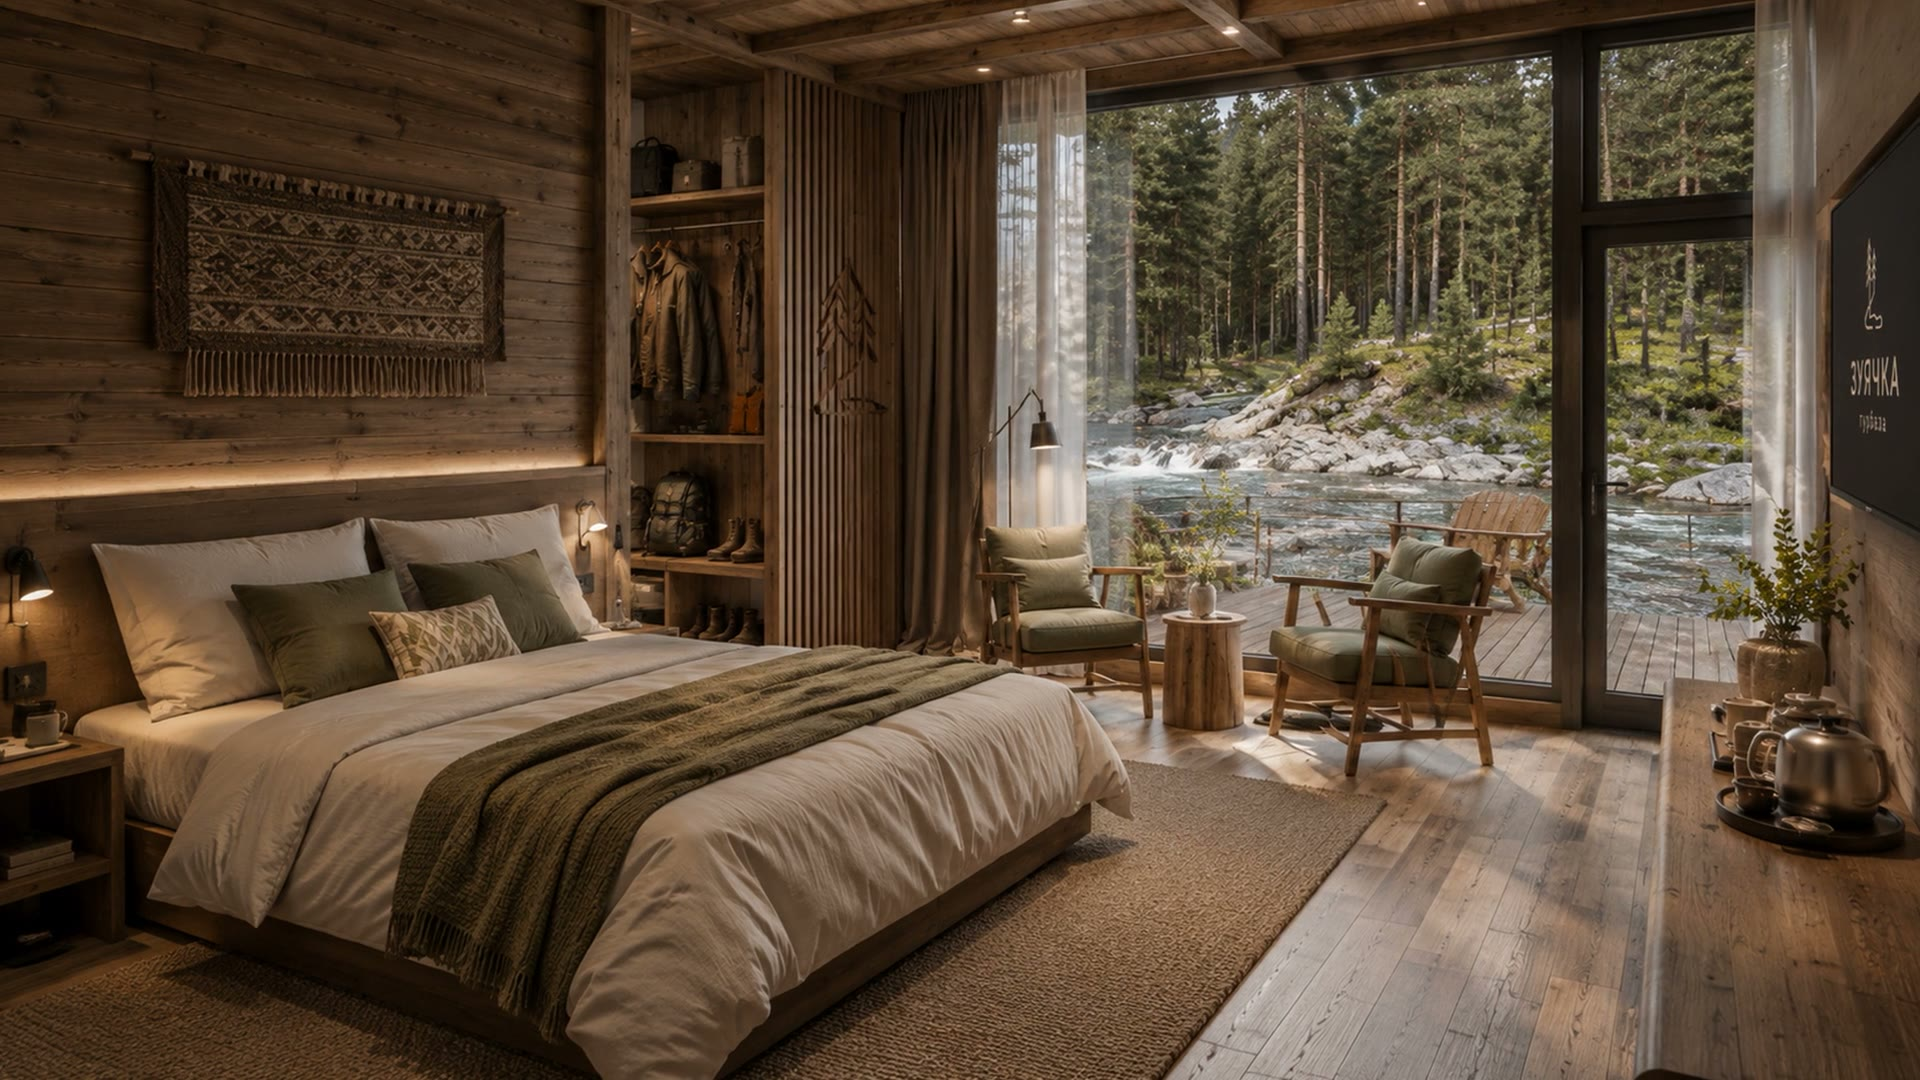
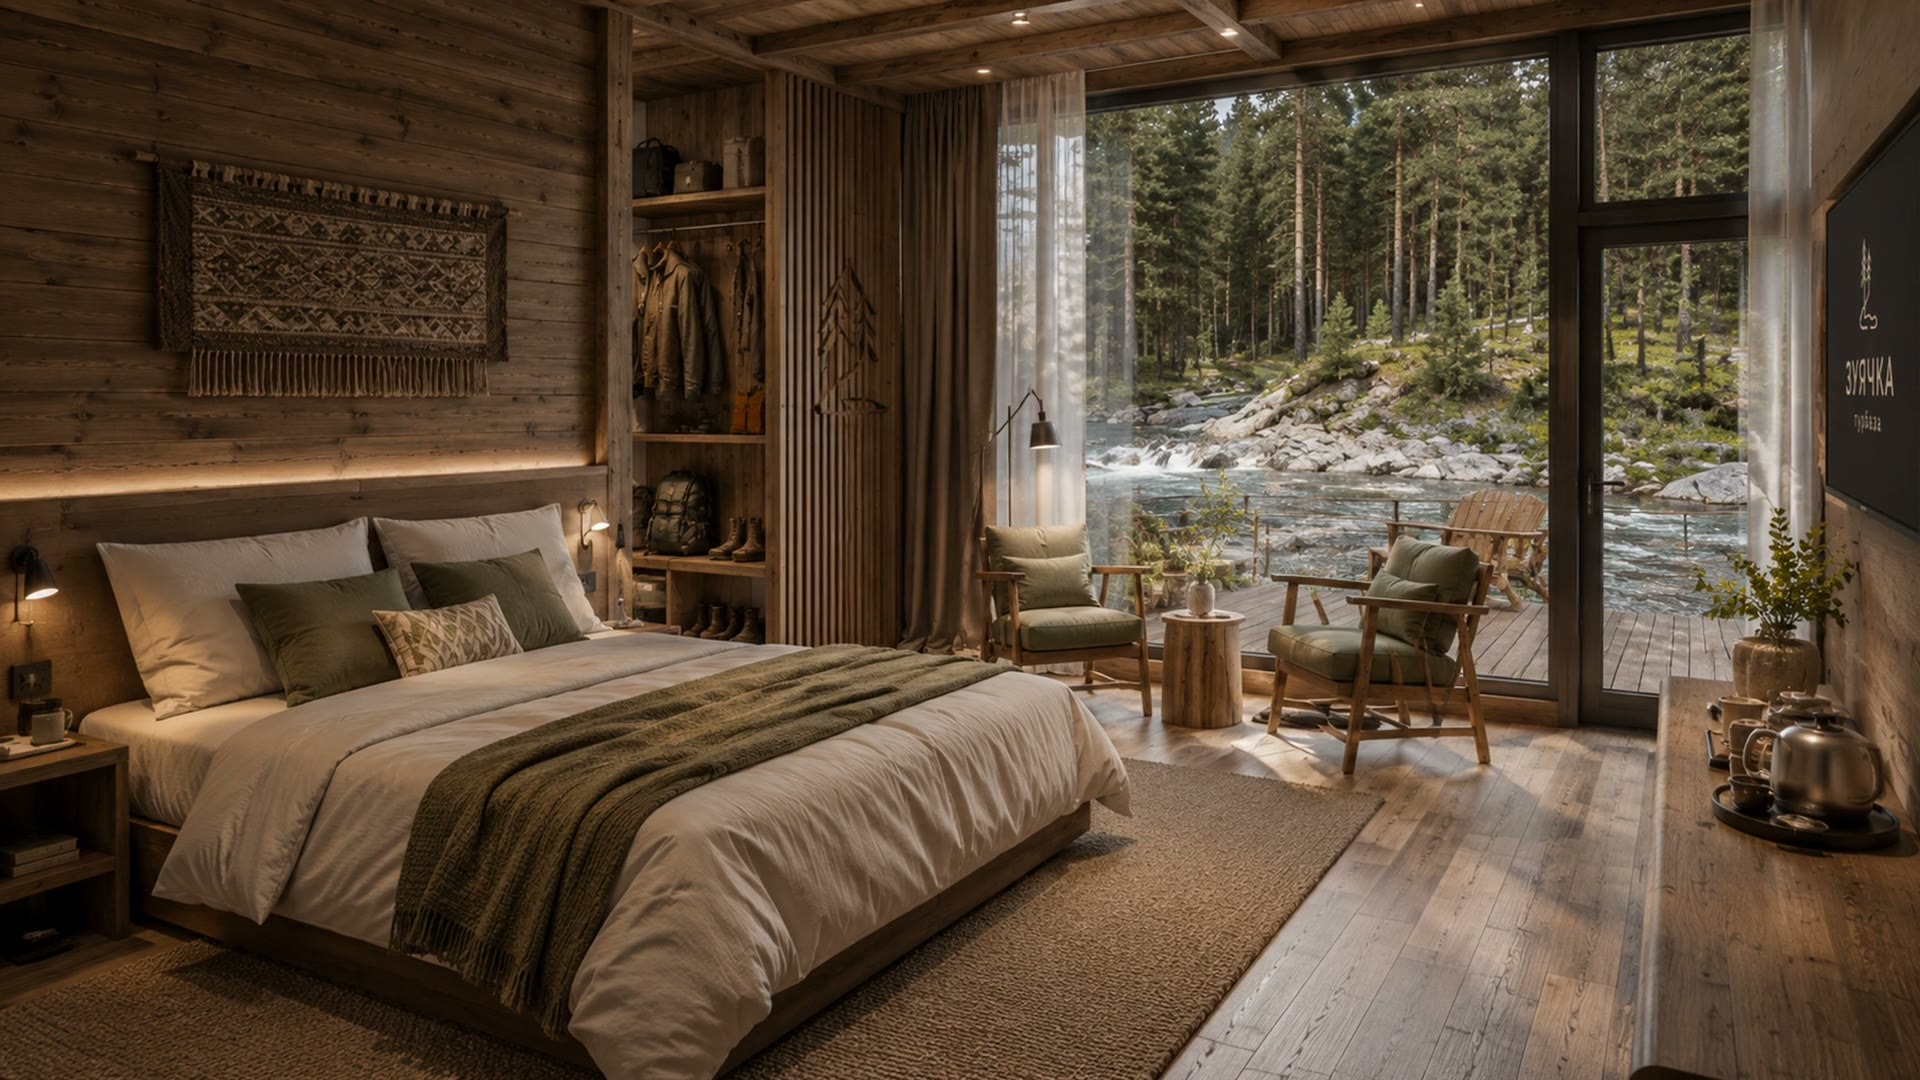
Refine bedroom motion video

diff --git a/app.js b/app.js
@@ -1,4 +1,4 @@
-const data = window.PORTFOLIO_DATA || { series: [], presentations: [], heroImages: [] };
+const data = window.PORTFOLIO_DATA || { series: [], presentations: [], heroImages: [] };
 
 const heroStrip = document.querySelector("#heroStrip");
 const seriesNav = document.querySelector("#seriesNav");
@@ -44,8 +44,9 @@ function renderSeries() {
   seriesRoot.innerHTML = data.series.map((section) => {
     const items = section.items.map((item, index) => {
       const videoPoster = item.poster ? ` poster="${item.poster}"` : "";
+      const videoPreload = item.poster ? "none" : "metadata";
       const media = item.type === "video"
-        ? `<video src="${item.src}" controls playsinline preload="metadata"${videoPoster}></video>`
+        ? `<video src="${item.src}" controls playsinline preload="${videoPreload}"${videoPoster}></video>`
         : `<img src="${item.src}" alt="${item.title}" loading="lazy">`;
       const buttonAttrs = item.href
         ? `data-href="${item.href}" tabindex="0" role="link" aria-label="Open ${item.title}"`
@@ -53,7 +54,7 @@ function renderSeries() {
           ? ""
           : `data-section="${section.id}" data-index="${index}" tabindex="0" role="button" aria-label="Open ${item.title}"`;
 
-      const linkBadge = item.href ? `<span class="work-link-badge">Смотреть сайт</span>` : "";
+      const linkBadge = item.href ? `<span class="work-link-badge">РЎРјРѕС‚СЂРµС‚СЊ СЃР°Р№С‚</span>` : "";
 
       return `
         <article class="work-slide" ${buttonAttrs}>
@@ -154,7 +155,7 @@ function setModalImage(index) {
   modalImage.src = item.src;
   modalImage.alt = item.title;
   modalTitle.textContent = item.title;
-  modalKicker.textContent = `${activeKicker} / ${activeIndex + 1} из ${activeGallery.length}`;
+  modalKicker.textContent = `${activeKicker} / ${activeIndex + 1} РёР· ${activeGallery.length}`;
 }
 
 function closeModal() {
@@ -250,4 +251,3 @@ renderPresentations();
 settleHashScroll();
 window.addEventListener("load", settleHashScroll);
 window.addEventListener("hashchange", settleHashScroll);
-